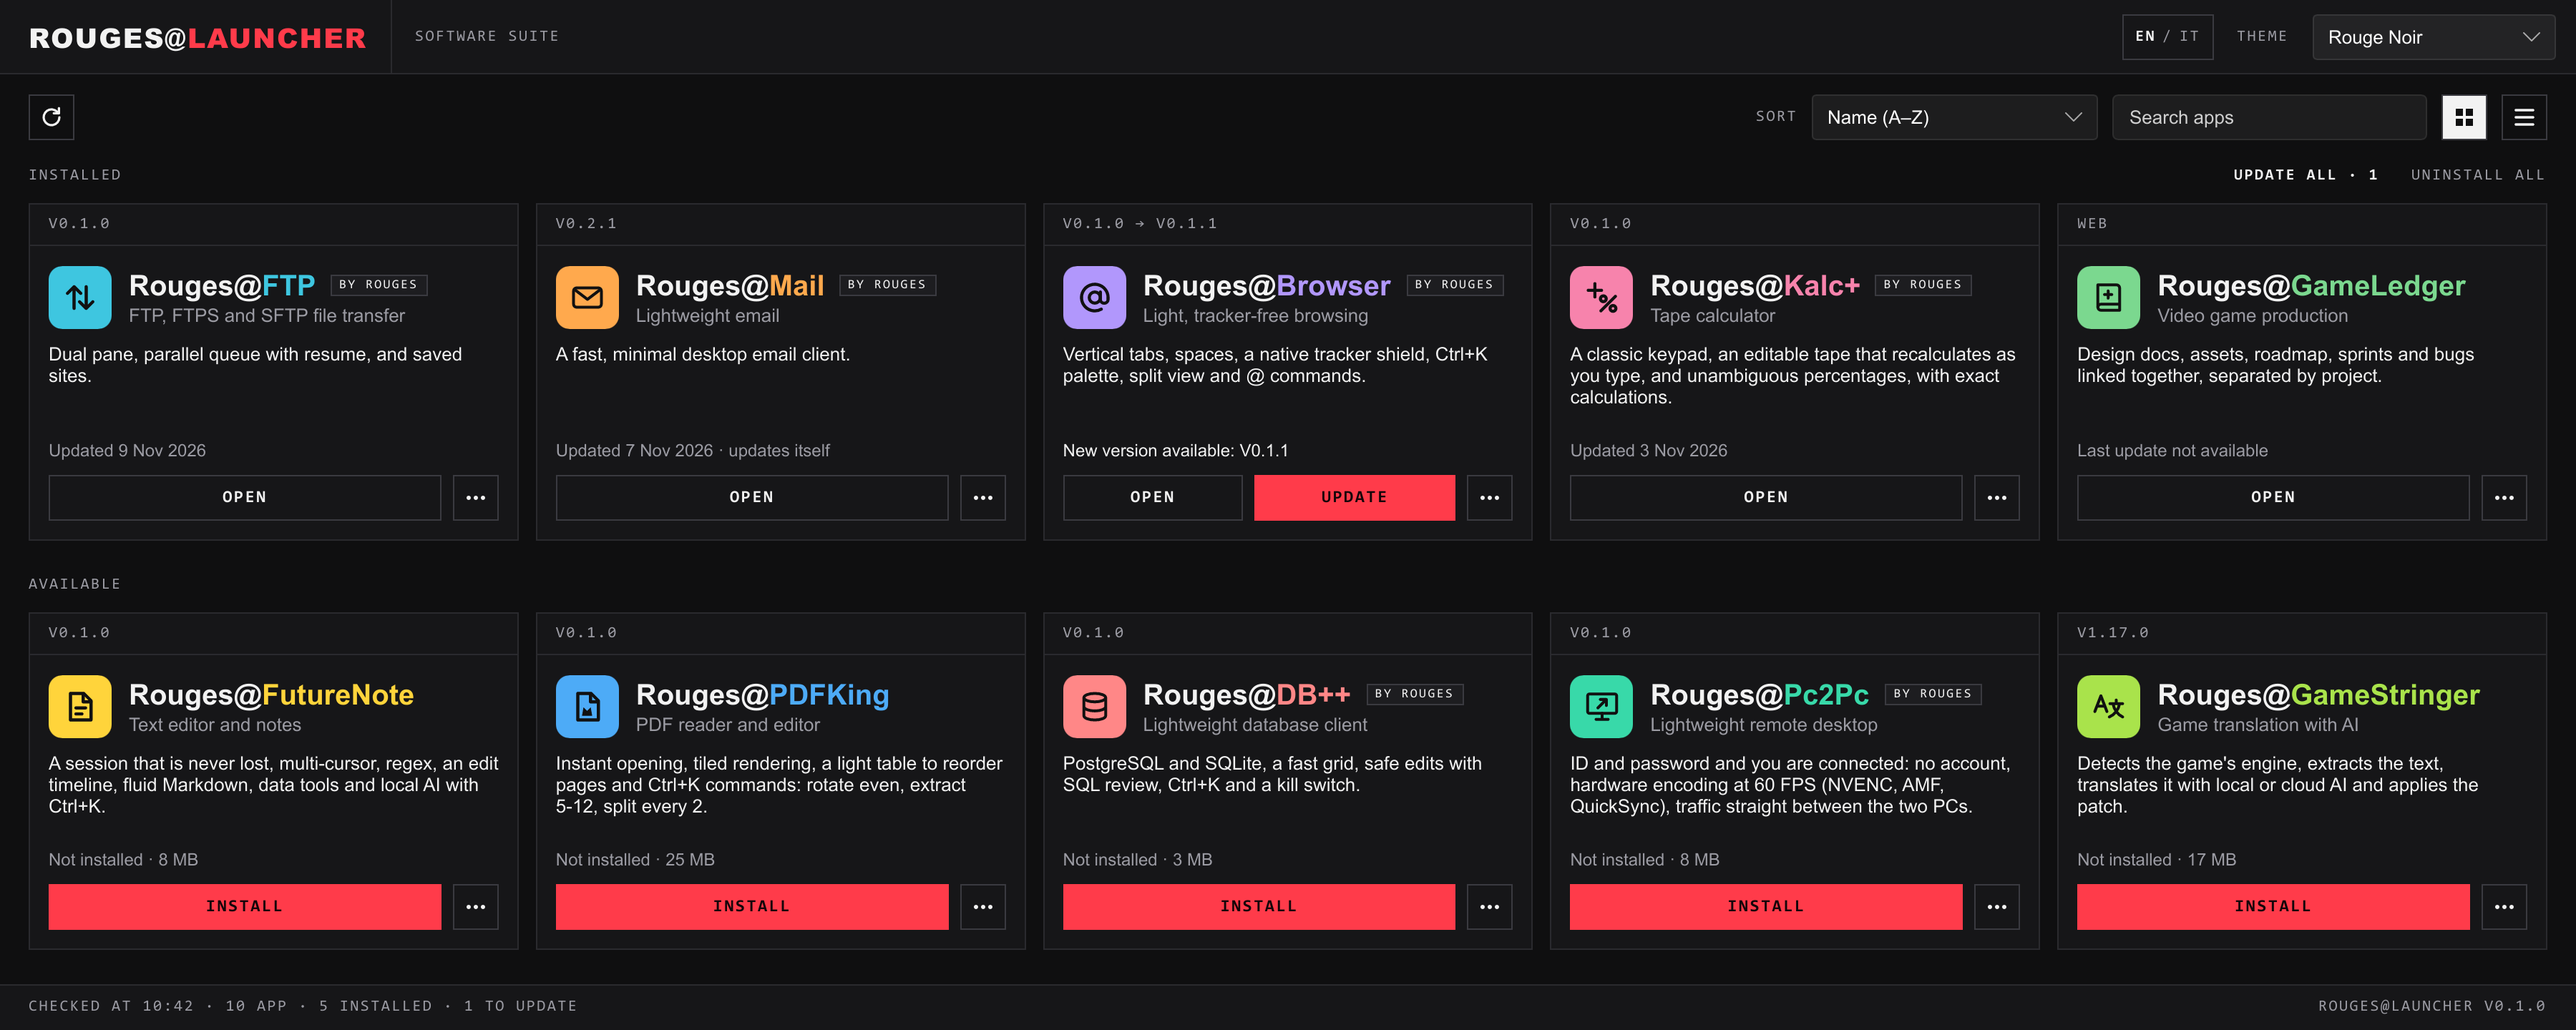
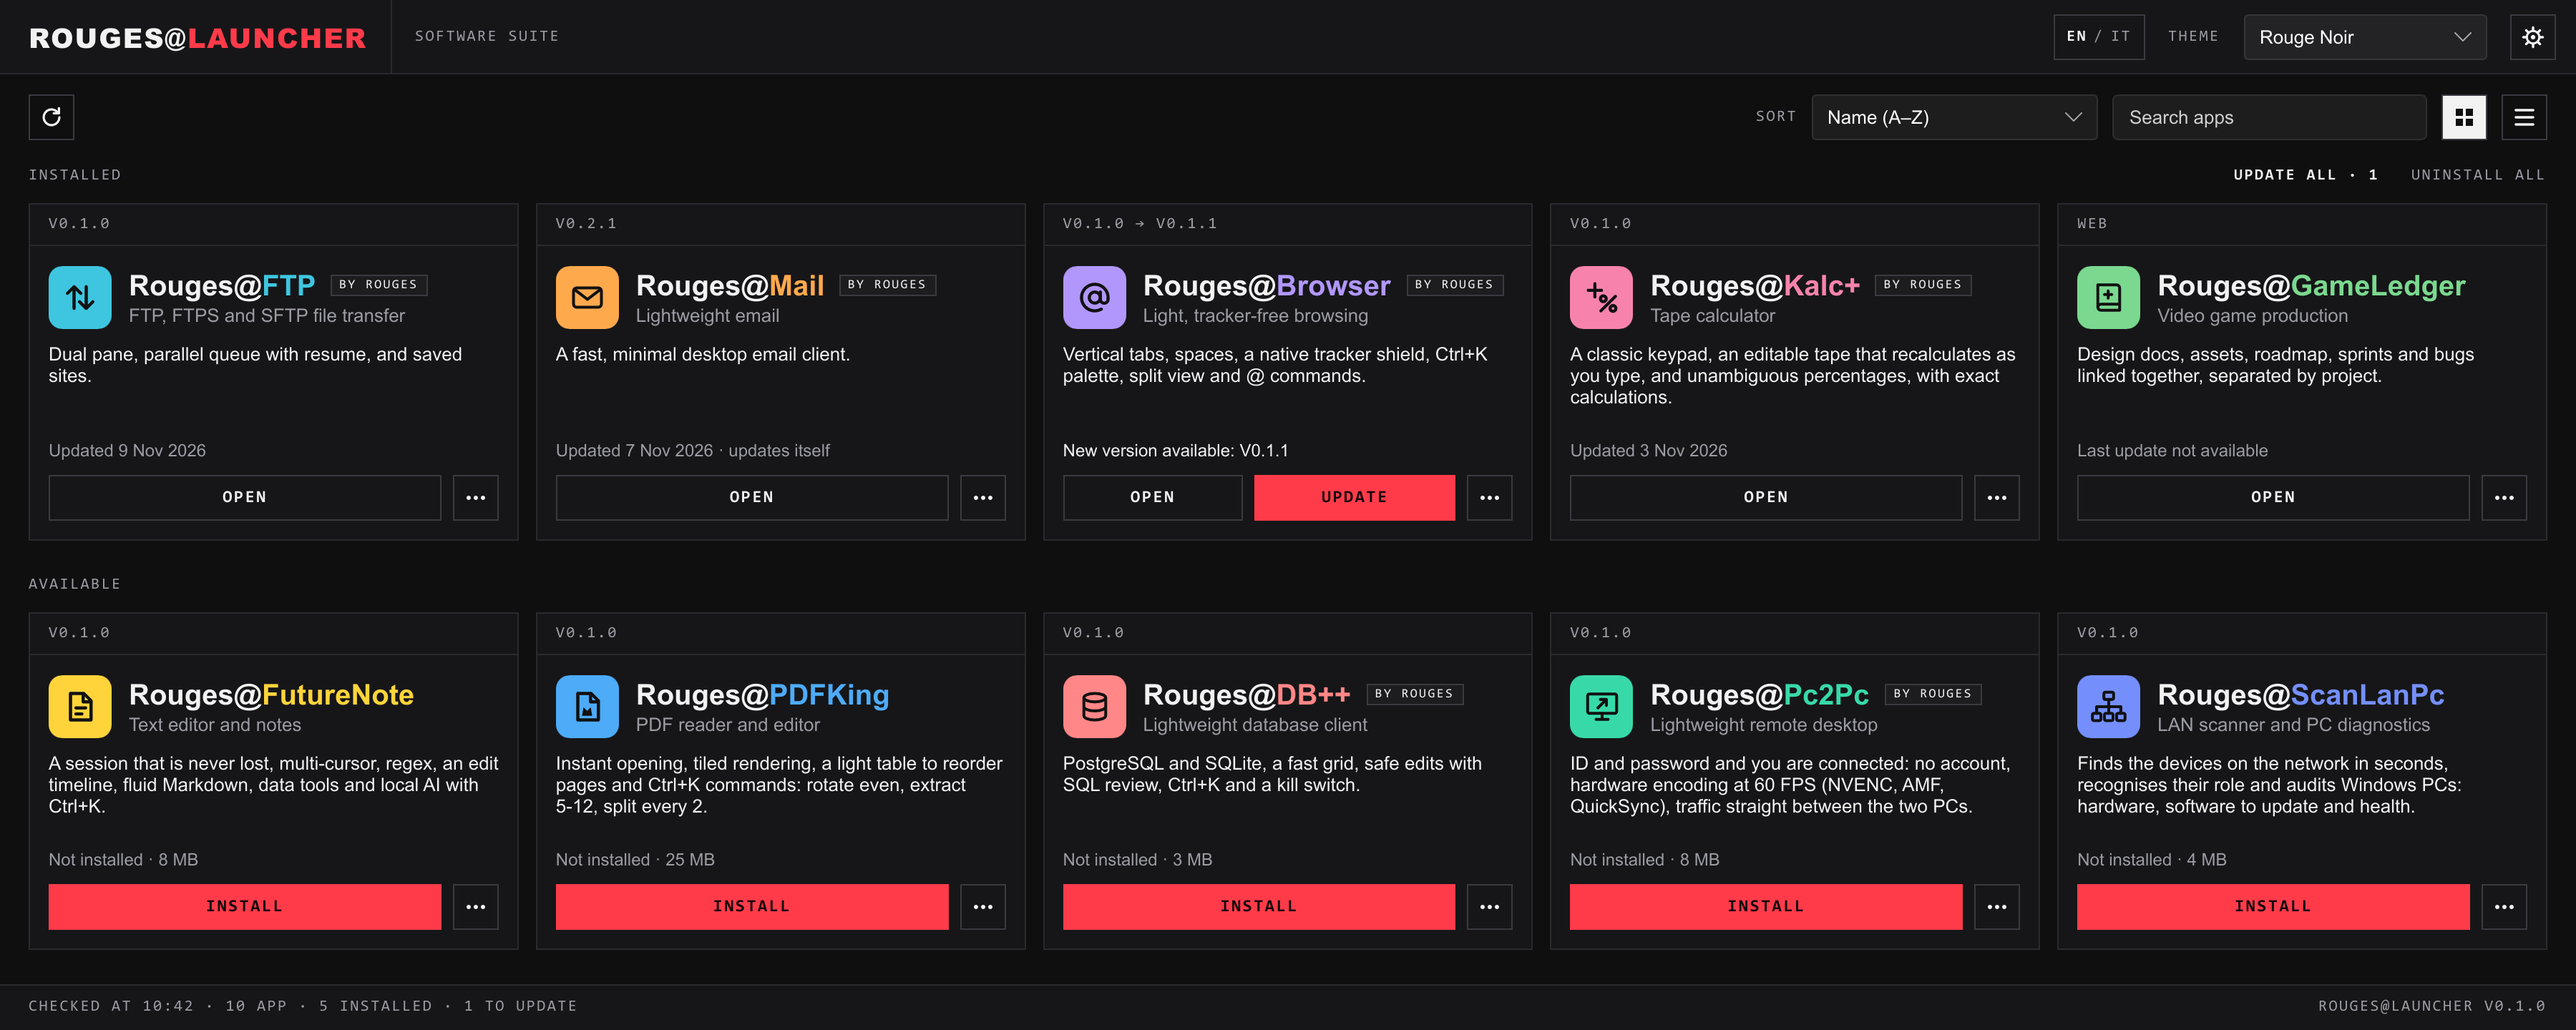
Rouges@GameStringer fuori dal catalogo

Changed region(s): [[0.8089, 0.6562, 0.9644, 0.8438], [0.8089, 0.0312, 0.9333, 0.0625]]

diff --git a/README.md b/README.md
@@ -60,7 +60,6 @@ It downloads the same `RougesSetup.exe`, checks its SHA-256 and runs it.
 | <img src="assets/icons/playvideo.svg" width="40" alt=""> | **Rouges@PlayVideo** | Video player: any format up to 4K HDR with hardware decoding, seek-bar previews, subtitles and A-B loop. |
 | <img src="assets/icons/videoenhancer.svg" width="40" alt=""> | **Rouges@VideoEnhancer** | AI video upscaling and frame interpolation: Real-ESRGAN and RIFE on the GPU, a live before/after preview. |
 | <img src="assets/icons/scanlan.svg" width="40" alt=""> | **Rouges@ScanLanPc** | LAN scanner and PC diagnostics: finds the devices on the network in seconds, recognises their role and audits Windows PCs: hardware, software to update and health. |
-| <img src="assets/icons/gamestringer.svg" width="40" alt=""> | **Rouges@GameStringer** | Game translation with AI: detects the game's engine, extracts the text, translates it and applies the patch. |
 | <img src="assets/icons/gameledger.svg" width="40" alt=""> | **Rouges@GameLedger** | Video game production, in the browser: design docs, assets, roadmap, sprints and bugs linked together, separated by project. |
 
 ## Why a launcher
